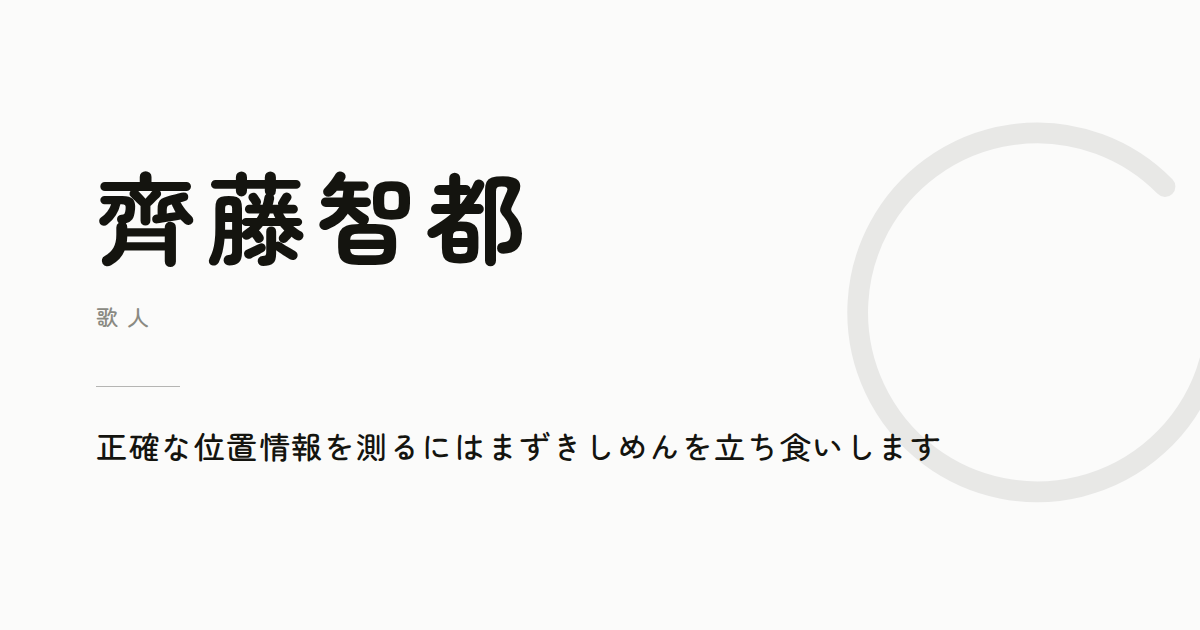
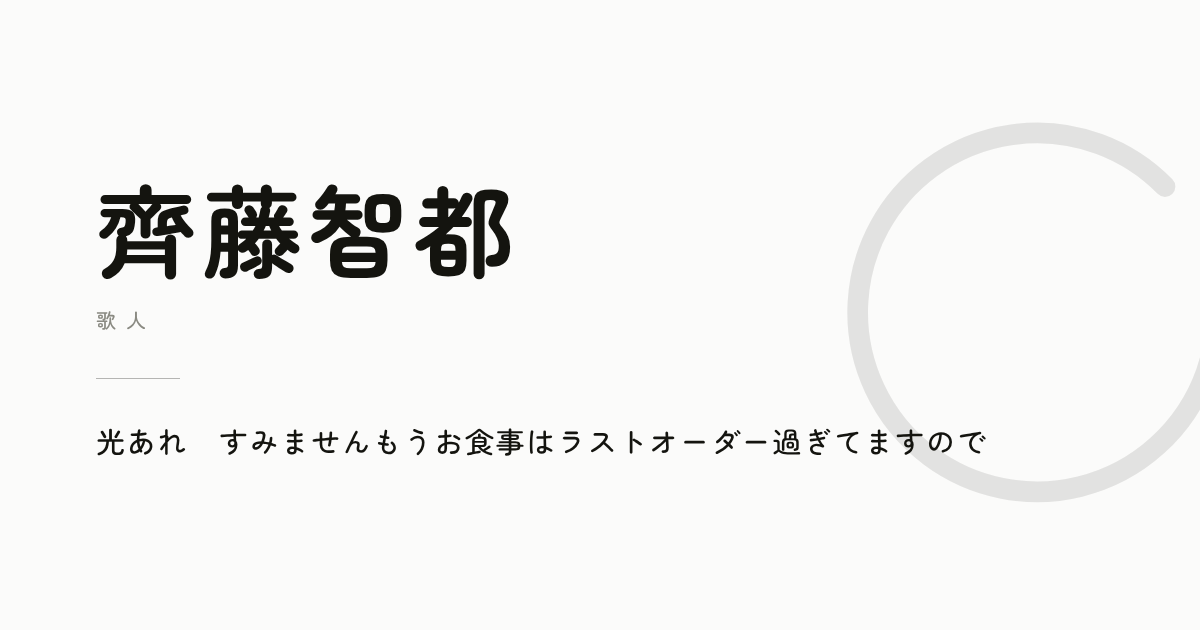
代表歌を「光あれ　すみませんもうお食事はラストオーダー過ぎてますので」に差し替え
一行に収まるよう字の大きさを少し縮め、OGP画像も作り直した。

Claude-Session: https://claude.ai/code/session_01DyRVdmiizq25jDgckk7dF7

Changed region(s): [[0.0617, 0.2714, 0.4317, 0.4524], [0.0617, 0.6635, 0.8325, 0.754], [0.0617, 0.4825, 0.1233, 0.5429]]

diff --git a/apps/frontend/public/index.html b/apps/frontend/public/index.html
@@ -260,7 +260,7 @@
     .signature {
       position: relative;
       margin: 0 0 40px;
-      font-size: min(19px, 3vw);
+      font-size: min(19px, 2.8vw);
       font-weight: 500;
       line-height: 2.1;
       letter-spacing: 0.01em;
@@ -507,7 +507,7 @@
       <h1 class="hero-name">齊藤智都</h1>
       <div class="hero-role">歌人</div>
       <!-- 代表歌：入れ替えるときはこの一行を書き換えてください -->
-      <p class="signature">正確な位置情報を測るにはまずきしめんを立ち食いします</p>
+      <p class="signature">光あれ　すみませんもうお食事はラストオーダー過ぎてますので</p>
       <p class="lead">短歌をつくっています。このサイトは、応募した作品や発行したネットプリントの記録を、少しずつためていくための場所です。</p>
     </section>
 
